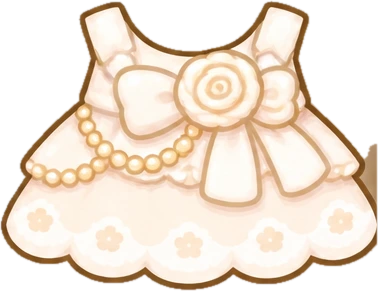
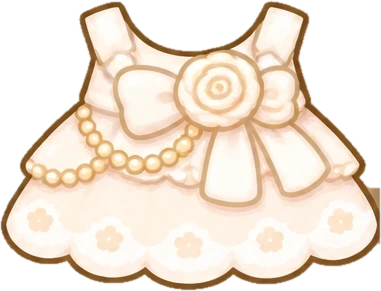
Fix cropped wedding dress and banana doll
Claude-Session: https://claude.ai/code/session_01R3m8MAFkhgnU4D5f6BKp5W

diff --git a/index.html b/index.html
@@ -834,7 +834,7 @@ DISHES.forEach(function(d){ for(var st=1;st<=3;st++){ var x=STAR_X[st];
 var SHOP = [];
 /* 이미지로 만든 아이템: {id,name,slot,tier,cost,file:'assets/items/id.webp',box:[x,y,w,h]} 를 여기에 추가하면
    뽑기·꾸미기·도감에 자동으로 들어가요. box는 캔버스(640x520) 좌표, vb는 box 와 같아요. */
-var IMG_ITEMS = [{"id": "ribbon", "name": "빨간 리본", "slot": "side", "tier": 0, "cost": 8, "file": "assets/items/ribbon.webp", "box": [374.5, 56.1, 125, 71.7]}, {"id": "flower", "name": "꽃 핀", "slot": "side", "tier": 0, "cost": 12, "file": "assets/items/flower.webp", "box": [152.5, 43.1, 105, 97.7]}, {"id": "sprout", "name": "새싹 핀", "slot": "side", "tier": 0, "cost": 8, "file": "assets/items/sprout.webp", "box": [382.0, 53.3, 110, 77.5]}, {"id": "heart", "name": "하트 핀", "slot": "side", "tier": 0, "cost": 10, "file": "assets/items/heart.webp", "box": [383.0, 46.8, 108, 90.4]}, {"id": "star", "name": "별 핀", "slot": "side", "tier": 0, "cost": 10, "file": "assets/items/star.webp", "box": [383.0, 37.5, 108, 108.9]}, {"id": "cloudbow", "name": "구름 무지개 핀", "slot": "side", "tier": 0, "cost": 12, "file": "assets/items/cloudbow.webp", "box": [377.0, 51.8, 120, 80.5]}, {"id": "cherry", "name": "체리 핀", "slot": "side", "tier": 0, "cost": 12, "file": "assets/items/cherry.webp", "box": [387.0, 42.4, 100, 99.2]}, {"id": "glasses", "name": "동그란 안경", "slot": "face", "tier": 1, "cost": 15, "file": "assets/items/glasses.webp", "box": [143.5, 166.3, 355, 147.4]}, {"id": "scarf", "name": "따뜻한 목도리", "slot": "neck", "tier": 1, "cost": 20, "file": "assets/items/scarf.webp", "box": [179.5, 318.9, 285, 178.3]}, {"id": "hat", "name": "파티 모자", "slot": "head", "tier": 1, "cost": 25, "file": "assets/items/hat.webp", "box": [250.0, -80.1, 140, 168.1]}, {"id": "wingpin", "name": "날개 핀", "slot": "side", "tier": 1, "cost": 18, "file": "assets/items/wingpin.webp", "box": [379.5, 46.4, 115, 91.1]}, {"id": "purplebow", "name": "보라 리본 핀", "slot": "side", "tier": 1, "cost": 15, "file": "assets/items/purplebow.webp", "box": [377.0, 50.1, 120, 83.8]}, {"id": "lacebow", "name": "레이스 리본 핀", "slot": "side", "tier": 1, "cost": 18, "file": "assets/items/lacebow.webp", "box": [379.5, 38.0, 115, 108.1]}, {"id": "snow", "name": "눈꽃 핀", "slot": "side", "tier": 1, "cost": 20, "file": "assets/items/snow.webp", "box": [387.0, 48.3, 100, 87.4]}, {"id": "moon", "name": "달별 핀", "slot": "side", "tier": 1, "cost": 22, "file": "assets/items/moon.webp", "box": [382.0, 39.7, 110, 104.6]}, {"id": "crown", "name": "반짝 왕관", "slot": "head", "tier": 2, "cost": 0, "file": "assets/items/crown.webp", "box": [230.0, -37.8, 180, 127.8]}, {"id": "wizard", "name": "별 마법사 모자", "slot": "head", "tier": 2, "cost": 0, "file": "assets/items/wizard.webp", "box": [177.0, -77.3, 290, 189.3]}, {"id": "starwing", "name": "별무지개 날개 머리띠", "slot": "head", "tier": 2, "cost": 0, "file": "assets/items/starwing.webp", "box": [165.0, 28.9, 310, 134.2]}, {"id": "nightcap", "name": "꿀잠 모자", "slot": "head", "tier": 2, "cost": 0, "file": "assets/items/nightcap.webp", "box": [192.0, 9.8, 260, 180.4]}, {"id": "maid", "name": "프릴 리본 머리띠", "slot": "head", "tier": 2, "cost": 0, "file": "assets/items/maid.webp", "box": [190.0, 19.6, 260, 156.9]}, {"id": "angel", "name": "천사 날개 후광", "slot": "head", "tier": 3, "cost": 0, "file": "assets/items/angel.webp", "box": [150.0, 6.4, 340, 177.1]}, {"id": "bat", "name": "박쥐 날개", "slot": "head", "tier": 3, "cost": 0, "file": "assets/items/bat.webp", "box": [165.0, 48.5, 310, 127.1]}, {"id": "wreath", "name": "꽃 화관", "slot": "head", "tier": 3, "cost": 0, "file": "assets/items/wreath.webp", "box": [180.0, 19.0, 280, 162.0]}, {"id": "tiara", "name": "날개 티아라", "slot": "head", "tier": 3, "cost": 0, "file": "assets/items/tiara.webp", "box": [195.0, 18.6, 250, 146.9]}, {"id": "galaxy", "name": "은하수 머리띠", "slot": "head", "tier": 3, "cost": 0, "file": "assets/items/galaxy.webp", "box": [160.0, 23.2, 320, 161.5]}, {"id": "broom", "name": "빗자루", "slot": "hand", "tier": 0, "cost": 14, "file": "assets/items/broom.webp", "box": [401.6, 283, 100.8, 230]}, {"id": "drink", "name": "음료수", "slot": "hand", "tier": 0, "cost": 10, "file": "assets/items/drink.webp", "box": [136.2, 332, 97.6, 162]}, {"id": "schoolbag", "name": "학교가방", "slot": "hand", "tier": 0, "cost": 16, "file": "assets/items/schoolbag.webp", "box": [383.0, 392, 133.0, 140]}, {"id": "slime", "name": "슬라임", "slot": "hand", "tier": 1, "cost": 18, "file": "assets/items/slime.webp", "box": [108.0, 331.1, 154, 116.8]}, {"id": "gameboy", "name": "휴대용 게임기", "slot": "hand", "tier": 1, "cost": 24, "file": "assets/items/gameboy.webp", "box": [222.0, 359.4, 195, 109.1]}, {"id": "bananadoll", "name": "바나나 애착인형", "slot": "hand", "tier": 2, "cost": 0, "file": "assets/items/bananadoll.webp", "box": [105.0, 303.6, 150, 176.4]}, {"id": "elephantdoll", "name": "코끼리 애착인형", "slot": "hand", "tier": 2, "cost": 0, "file": "assets/items/elephantdoll.webp", "box": [385.0, 321.0, 160, 148.7]}, {"id": "tshirt", "name": "줄무늬 티셔츠", "slot": "outfit", "tier": 0, "cost": 14, "file": "assets/items/tshirt.webp", "box": [200.0, 328, 240, 131.0]}, {"id": "overalls", "name": "멜빵바지", "slot": "outfit", "tier": 0, "cost": 16, "file": "assets/items/overalls.webp", "box": [200.0, 328, 240, 177.4]}, {"id": "dress", "name": "분홍 원피스", "slot": "outfit", "tier": 1, "cost": 26, "file": "assets/items/dress.webp", "box": [200.0, 328, 240, 131.7]}, {"id": "hanbok", "name": "한복", "slot": "outfit", "tier": 1, "cost": 30, "file": "assets/items/hanbok.webp", "box": [200.0, 328, 240, 139.9]}, {"id": "uniform", "name": "세일러 교복", "slot": "outfit", "tier": 1, "cost": 28, "file": "assets/items/uniform.webp", "box": [200.0, 328, 240, 146.9]}, {"id": "cape", "name": "별빛 마법 망토", "slot": "outfit", "tier": 2, "cost": 0, "file": "assets/items/cape.webp", "box": [200.0, 365, 240, 138.0]}, {"id": "princess", "name": "공주 드레스", "slot": "outfit", "tier": 2, "cost": 0, "file": "assets/items/princess.webp", "box": [200.0, 328, 240, 157.7]}, {"id": "spacesuit", "name": "우주복", "slot": "outfit", "tier": 3, "cost": 0, "file": "assets/items/spacesuit.webp", "box": [200.0, 328, 240, 121.6]}, {"id": "heartphones", "name": "하트 헤드폰", "slot": "head", "tier": 1, "cost": 22, "file": "assets/items/heartphones.webp", "box": [82, -12, 476, 273.0]}, {"id": "nursehat", "name": "간호사 모자", "slot": "head", "tier": 0, "cost": 14, "file": "assets/items/nursehat.webp", "box": [215, 14, 210, 102.6]}, {"id": "nursedress", "name": "간호사복", "slot": "outfit", "tier": 1, "cost": 28, "file": "assets/items/nursedress.webp", "box": [180.0, 318, 280, 206.6]}, {"id": "pancake", "name": "팬케이크", "slot": "hand", "tier": 1, "cost": 18, "file": "assets/items/pancake.webp", "box": [110, 335, 150, 121.7]}, {"id": "chocochip", "name": "초코칩", "slot": "hand", "tier": 0, "cost": 12, "file": "assets/items/chocochip.webp", "box": [130, 340, 100, 101.5]}, {"id": "elephantwings", "name": "코끼리 날개", "slot": "back", "tier": 1, "cost": 32, "file": "assets/items/elephantwings.webp", "box": [-30.0, 205, 700, 321.4]}, {"id": "angelwings", "name": "천사 날개", "slot": "back", "tier": 1, "cost": 34, "file": "assets/items/angelwings.webp", "box": [-30.0, 205, 700, 269.5]}, {"id": "demonwings", "name": "악마 날개", "slot": "back", "tier": 1, "cost": 34, "file": "assets/items/demonwings.webp", "box": [-30.0, 205, 700, 300.2]}, {"id": "rainbowwings", "name": "무지개 날개", "slot": "back", "tier": 2, "cost": 0, "file": "assets/items/rainbowwings.webp", "box": [-30.0, 205, 700, 312.6]}, {"id": "butterflywings", "name": "나비 날개", "slot": "back", "tier": 0, "cost": 24, "file": "assets/items/butterflywings.webp", "box": [-30.0, 205, 700, 313.3]}, {"id": "fairywings", "name": "요정 날개", "slot": "back", "tier": 1, "cost": 30, "file": "assets/items/fairywings.webp", "box": [-30.0, 205, 700, 358.8]}, {"id": "crystalwings", "name": "크리스탈 날개", "slot": "back", "tier": 2, "cost": 0, "file": "assets/items/crystalwings.webp", "box": [-30.0, 205, 700, 354.4]}, {"id": "starwings", "name": "별빛 날개", "slot": "back", "tier": 2, "cost": 0, "file": "assets/items/starwings.webp", "box": [-30.0, 205, 700, 348.6]}, {"id": "naturewings", "name": "자연 날개", "slot": "back", "tier": 1, "cost": 30, "file": "assets/items/naturewings.webp", "box": [-30.0, 205, 700, 350.8]}, {"id": "nheart", "name": "하트 멜빵 반바지", "slot": "outfit", "tier": 0, "cost": 16, "file": "assets/items/nheart.webp", "box": [180.0, 318, 280, 210.6]}, {"id": "nribbon", "name": "분홍 리본 원피스", "slot": "outfit", "tier": 1, "cost": 26, "file": "assets/items/nribbon.webp", "box": [180.0, 318, 280, 192.7]}, {"id": "ndaisy", "name": "노랑 데이지 원피스", "slot": "outfit", "tier": 1, "cost": 28, "file": "assets/items/ndaisy.webp", "box": [180.0, 318, 280, 200.4]}, {"id": "nstrawb", "name": "딸기 레이스 원피스", "slot": "outfit", "tier": 1, "cost": 28, "file": "assets/items/nstrawb.webp", "box": [180.0, 318, 280, 188.6]}, {"id": "nsailor", "name": "곰돌이 세일러복", "slot": "outfit", "tier": 0, "cost": 18, "file": "assets/items/nsailor.webp", "box": [180.0, 318, 280, 205.2]}, {"id": "nbeartan", "name": "갈색 리본 곰돌이옷", "slot": "outfit", "tier": 1, "cost": 26, "file": "assets/items/nbeartan.webp", "box": [180.0, 318, 280, 209.0]}, {"id": "nrose", "name": "장미 꽃무늬 원피스", "slot": "outfit", "tier": 1, "cost": 26, "file": "assets/items/nrose.webp", "box": [180.0, 318, 280, 195.0]}, {"id": "nbearblue", "name": "곰돌이 파랑 멜빵", "slot": "outfit", "tier": 0, "cost": 18, "file": "assets/items/nbearblue.webp", "box": [180.0, 318, 280, 209.6]}, {"id": "nstar", "name": "별빛 망토", "slot": "outfit", "tier": 2, "cost": 0, "file": "assets/items/nstar.webp", "box": [180.0, 318, 280, 204.7]}, {"id": "nsnow", "name": "눈꽃 망토", "slot": "outfit", "tier": 2, "cost": 0, "file": "assets/items/nsnow.webp", "box": [180.0, 318, 280, 193.8]}, {"id": "nprince", "name": "왕자님 정복", "slot": "outfit", "tier": 2, "cost": 0, "file": "assets/items/nprince.webp", "box": [180.0, 318, 280, 211.5]}, {"id": "nbat", "name": "박쥐 망토", "slot": "outfit", "tier": 3, "cost": 0, "file": "assets/items/nbat.webp", "box": [180.0, 318, 280, 207.8]}, {"id": "mpink", "name": "핑크 하트 멜빵", "slot": "outfit", "tier": 0, "cost": 16, "file": "assets/items/mpink.webp", "box": [180.0, 318, 280, 226.8]}, {"id": "myellow", "name": "노랑 데이지 리본 원피스", "slot": "outfit", "tier": 1, "cost": 26, "file": "assets/items/myellow.webp", "box": [180.0, 318, 280, 197.4]}, {"id": "manchor", "name": "닻 세일러 원피스", "slot": "outfit", "tier": 0, "cost": 18, "file": "assets/items/manchor.webp", "box": [180.0, 318, 280, 206.7]}, {"id": "mstrawchk", "name": "딸기 체크 원피스", "slot": "outfit", "tier": 1, "cost": 28, "file": "assets/items/mstrawchk.webp", "box": [180.0, 318, 280, 196.1]}, {"id": "mdenim", "name": "별 청멜빵 반바지", "slot": "outfit", "tier": 0, "cost": 16, "file": "assets/items/mdenim.webp", "box": [180.0, 318, 280, 213.6]}, {"id": "mlavender", "name": "라벤더 프릴 원피스", "slot": "outfit", "tier": 1, "cost": 28, "file": "assets/items/mlavender.webp", "box": [180.0, 318, 280, 197.1]}, {"id": "mbearcream", "name": "곰돌이 크림 멜빵", "slot": "outfit", "tier": 1, "cost": 26, "file": "assets/items/mbearcream.webp", "box": [180.0, 318, 280, 215.8]}, {"id": "mmint", "name": "민트 클로버 원피스", "slot": "outfit", "tier": 1, "cost": 26, "file": "assets/items/mmint.webp", "box": [180.0, 318, 280, 202.9]}, {"id": "mcloud", "name": "구름 리본 원피스", "slot": "outfit", "tier": 1, "cost": 26, "file": "assets/items/mcloud.webp", "box": [180.0, 318, 280, 205.4]}, {"id": "mbee", "name": "꿀벌 멜빵", "slot": "outfit", "tier": 2, "cost": 0, "file": "assets/items/mbee.webp", "box": [180.0, 318, 280, 232.5]}, {"id": "mpearl", "name": "진주 하트 원피스", "slot": "outfit", "tier": 2, "cost": 0, "file": "assets/items/mpearl.webp", "box": [160.0, 318, 280, 214.0]}, {"id": "mnavy", "name": "달별 네이비 정복", "slot": "outfit", "tier": 3, "cost": 0, "file": "assets/items/mnavy.webp", "box": [180.0, 318, 280, 211.5]}, {"id": "psakura", "name": "벚꽃 원피스", "slot": "outfit", "tier": 1, "cost": 26, "file": "assets/items/psakura.webp", "box": [180.0, 328, 280, 217.5]}, {"id": "palice", "name": "앨리스 원피스", "slot": "outfit", "tier": 2, "cost": 0, "file": "assets/items/palice.webp", "box": [180.0, 328, 280, 222.2]}, {"id": "ppicnic", "name": "체크 피크닉 원피스", "slot": "outfit", "tier": 1, "cost": 28, "file": "assets/items/ppicnic.webp", "box": [180.0, 328, 280, 222.3]}, {"id": "pballet", "name": "발레코어 원피스", "slot": "outfit", "tier": 1, "cost": 28, "file": "assets/items/pballet.webp", "box": [180.0, 328, 280, 206.8]}, {"id": "pangel", "name": "천사 원피스", "slot": "outfit", "tier": 2, "cost": 0, "file": "assets/items/pangel.webp", "box": [160.0, 328, 280, 206.5]}, {"id": "pwedding", "name": "웨딩 드레스", "slot": "outfit", "tier": 3, "cost": 0, "file": "assets/items/pwedding.webp", "box": [180.0, 328, 280, 215.6]}, {"id": "pbee", "name": "꿀벌 원피스", "slot": "outfit", "tier": 1, "cost": 26, "file": "assets/items/pbee.webp", "box": [180.0, 328, 280, 236.0]}, {"id": "pfrog", "name": "개구리 멜빵", "slot": "outfit", "tier": 0, "cost": 18, "file": "assets/items/pfrog.webp", "box": [180.0, 328, 280, 214.2]}, {"id": "pcherry", "name": "체리 원피스", "slot": "outfit", "tier": 1, "cost": 28, "file": "assets/items/pcherry.webp", "box": [180.0, 328, 280, 228.3]}, {"id": "pcloudstar", "name": "구름별 원피스", "slot": "outfit", "tier": 2, "cost": 0, "file": "assets/items/pcloudstar.webp", "box": [180.0, 328, 280, 234.1]}, {"id": "pgoth", "name": "고딕 로리타", "slot": "outfit", "tier": 2, "cost": 0, "file": "assets/items/pgoth.webp", "box": [180.0, 328, 280, 230.8]}, {"id": "pxmas", "name": "크리스마스 원피스", "slot": "outfit", "tier": 3, "cost": 0, "file": "assets/items/pxmas.webp", "box": [180.0, 328, 280, 219.7]}, {"id": "kblackdress", "name": "검정 칼라 원피스", "slot": "outfit", "tier": 1, "cost": 26, "file": "assets/items/kblackdress.webp", "box": [160.0, 318, 280, 160.0]}, {"id": "kplaid", "name": "회색 체크 원피스", "slot": "outfit", "tier": 1, "cost": 28, "file": "assets/items/kplaid.webp", "box": [160.0, 318, 280, 171.7]}, {"id": "kapple", "name": "사과 빨강 원피스", "slot": "outfit", "tier": 1, "cost": 28, "file": "assets/items/kapple.webp", "box": [160.0, 318, 280, 173.8]}, {"id": "kwhite", "name": "흰 레이스 원피스", "slot": "outfit", "tier": 1, "cost": 26, "file": "assets/items/kwhite.webp", "box": [160.0, 318, 280, 177.1]}, {"id": "kgreen", "name": "그린 멜빵 원피스", "slot": "outfit", "tier": 1, "cost": 26, "file": "assets/items/kgreen.webp", "box": [160.0, 318, 280, 178.8]}, {"id": "kberet", "name": "빨간 베레모", "slot": "head", "tier": 1, "cost": 24, "file": "assets/items/kberet.webp", "box": [215, 8, 180, 103.0]}, {"id": "kblackbow", "name": "검정 리본", "slot": "head", "tier": 0, "cost": 12, "file": "assets/items/kblackbow.webp", "box": [335, 18, 95, 68.1]}, {"id": "kwhitebow", "name": "흰 리본", "slot": "head", "tier": 0, "cost": 12, "file": "assets/items/kwhitebow.webp", "box": [335, 18, 95, 68.1]}, {"id": "kpolice", "name": "경찰복", "slot": "outfit", "tier": 1, "cost": 28, "file": "assets/items/kpolice.webp", "box": [160.0, 318, 280, 211.4]}, {"id": "kpolicehat", "name": "경찰모", "slot": "head", "tier": 1, "cost": 26, "file": "assets/items/kpolicehat.webp", "box": [240.0, 19.6, 160, 95.4]}];
+var IMG_ITEMS = [{"id": "ribbon", "name": "빨간 리본", "slot": "side", "tier": 0, "cost": 8, "file": "assets/items/ribbon.webp", "box": [374.5, 56.1, 125, 71.7]}, {"id": "flower", "name": "꽃 핀", "slot": "side", "tier": 0, "cost": 12, "file": "assets/items/flower.webp", "box": [152.5, 43.1, 105, 97.7]}, {"id": "sprout", "name": "새싹 핀", "slot": "side", "tier": 0, "cost": 8, "file": "assets/items/sprout.webp", "box": [382.0, 53.3, 110, 77.5]}, {"id": "heart", "name": "하트 핀", "slot": "side", "tier": 0, "cost": 10, "file": "assets/items/heart.webp", "box": [383.0, 46.8, 108, 90.4]}, {"id": "star", "name": "별 핀", "slot": "side", "tier": 0, "cost": 10, "file": "assets/items/star.webp", "box": [383.0, 37.5, 108, 108.9]}, {"id": "cloudbow", "name": "구름 무지개 핀", "slot": "side", "tier": 0, "cost": 12, "file": "assets/items/cloudbow.webp", "box": [377.0, 51.8, 120, 80.5]}, {"id": "cherry", "name": "체리 핀", "slot": "side", "tier": 0, "cost": 12, "file": "assets/items/cherry.webp", "box": [387.0, 42.4, 100, 99.2]}, {"id": "glasses", "name": "동그란 안경", "slot": "face", "tier": 1, "cost": 15, "file": "assets/items/glasses.webp", "box": [143.5, 166.3, 355, 147.4]}, {"id": "scarf", "name": "따뜻한 목도리", "slot": "neck", "tier": 1, "cost": 20, "file": "assets/items/scarf.webp", "box": [179.5, 318.9, 285, 178.3]}, {"id": "hat", "name": "파티 모자", "slot": "head", "tier": 1, "cost": 25, "file": "assets/items/hat.webp", "box": [250.0, -80.1, 140, 168.1]}, {"id": "wingpin", "name": "날개 핀", "slot": "side", "tier": 1, "cost": 18, "file": "assets/items/wingpin.webp", "box": [379.5, 46.4, 115, 91.1]}, {"id": "purplebow", "name": "보라 리본 핀", "slot": "side", "tier": 1, "cost": 15, "file": "assets/items/purplebow.webp", "box": [377.0, 50.1, 120, 83.8]}, {"id": "lacebow", "name": "레이스 리본 핀", "slot": "side", "tier": 1, "cost": 18, "file": "assets/items/lacebow.webp", "box": [379.5, 38.0, 115, 108.1]}, {"id": "snow", "name": "눈꽃 핀", "slot": "side", "tier": 1, "cost": 20, "file": "assets/items/snow.webp", "box": [387.0, 48.3, 100, 87.4]}, {"id": "moon", "name": "달별 핀", "slot": "side", "tier": 1, "cost": 22, "file": "assets/items/moon.webp", "box": [382.0, 39.7, 110, 104.6]}, {"id": "crown", "name": "반짝 왕관", "slot": "head", "tier": 2, "cost": 0, "file": "assets/items/crown.webp", "box": [230.0, -37.8, 180, 127.8]}, {"id": "wizard", "name": "별 마법사 모자", "slot": "head", "tier": 2, "cost": 0, "file": "assets/items/wizard.webp", "box": [177.0, -77.3, 290, 189.3]}, {"id": "starwing", "name": "별무지개 날개 머리띠", "slot": "head", "tier": 2, "cost": 0, "file": "assets/items/starwing.webp", "box": [165.0, 28.9, 310, 134.2]}, {"id": "nightcap", "name": "꿀잠 모자", "slot": "head", "tier": 2, "cost": 0, "file": "assets/items/nightcap.webp", "box": [192.0, 9.8, 260, 180.4]}, {"id": "maid", "name": "프릴 리본 머리띠", "slot": "head", "tier": 2, "cost": 0, "file": "assets/items/maid.webp", "box": [190.0, 19.6, 260, 156.9]}, {"id": "angel", "name": "천사 날개 후광", "slot": "head", "tier": 3, "cost": 0, "file": "assets/items/angel.webp", "box": [150.0, 6.4, 340, 177.1]}, {"id": "bat", "name": "박쥐 날개", "slot": "head", "tier": 3, "cost": 0, "file": "assets/items/bat.webp", "box": [165.0, 48.5, 310, 127.1]}, {"id": "wreath", "name": "꽃 화관", "slot": "head", "tier": 3, "cost": 0, "file": "assets/items/wreath.webp", "box": [180.0, 19.0, 280, 162.0]}, {"id": "tiara", "name": "날개 티아라", "slot": "head", "tier": 3, "cost": 0, "file": "assets/items/tiara.webp", "box": [195.0, 18.6, 250, 146.9]}, {"id": "galaxy", "name": "은하수 머리띠", "slot": "head", "tier": 3, "cost": 0, "file": "assets/items/galaxy.webp", "box": [160.0, 23.2, 320, 161.5]}, {"id": "broom", "name": "빗자루", "slot": "hand", "tier": 0, "cost": 14, "file": "assets/items/broom.webp", "box": [401.6, 283, 100.8, 230]}, {"id": "drink", "name": "음료수", "slot": "hand", "tier": 0, "cost": 10, "file": "assets/items/drink.webp", "box": [136.2, 332, 97.6, 162]}, {"id": "schoolbag", "name": "학교가방", "slot": "hand", "tier": 0, "cost": 16, "file": "assets/items/schoolbag.webp", "box": [383.0, 392, 133.0, 140]}, {"id": "slime", "name": "슬라임", "slot": "hand", "tier": 1, "cost": 18, "file": "assets/items/slime.webp", "box": [108.0, 331.1, 154, 116.8]}, {"id": "gameboy", "name": "휴대용 게임기", "slot": "hand", "tier": 1, "cost": 24, "file": "assets/items/gameboy.webp", "box": [222.0, 359.4, 195, 109.1]}, {"id": "bananadoll", "name": "바나나 애착인형", "slot": "hand", "tier": 2, "cost": 0, "file": "assets/items/bananadoll.webp", "box": [62, 340, 130, 149.5]}, {"id": "elephantdoll", "name": "코끼리 애착인형", "slot": "hand", "tier": 2, "cost": 0, "file": "assets/items/elephantdoll.webp", "box": [385.0, 321.0, 160, 148.7]}, {"id": "tshirt", "name": "줄무늬 티셔츠", "slot": "outfit", "tier": 0, "cost": 14, "file": "assets/items/tshirt.webp", "box": [200.0, 328, 240, 131.0]}, {"id": "overalls", "name": "멜빵바지", "slot": "outfit", "tier": 0, "cost": 16, "file": "assets/items/overalls.webp", "box": [200.0, 328, 240, 177.4]}, {"id": "dress", "name": "분홍 원피스", "slot": "outfit", "tier": 1, "cost": 26, "file": "assets/items/dress.webp", "box": [200.0, 328, 240, 131.7]}, {"id": "hanbok", "name": "한복", "slot": "outfit", "tier": 1, "cost": 30, "file": "assets/items/hanbok.webp", "box": [200.0, 328, 240, 139.9]}, {"id": "uniform", "name": "세일러 교복", "slot": "outfit", "tier": 1, "cost": 28, "file": "assets/items/uniform.webp", "box": [200.0, 328, 240, 146.9]}, {"id": "cape", "name": "별빛 마법 망토", "slot": "outfit", "tier": 2, "cost": 0, "file": "assets/items/cape.webp", "box": [200.0, 365, 240, 138.0]}, {"id": "princess", "name": "공주 드레스", "slot": "outfit", "tier": 2, "cost": 0, "file": "assets/items/princess.webp", "box": [200.0, 328, 240, 157.7]}, {"id": "spacesuit", "name": "우주복", "slot": "outfit", "tier": 3, "cost": 0, "file": "assets/items/spacesuit.webp", "box": [200.0, 328, 240, 121.6]}, {"id": "heartphones", "name": "하트 헤드폰", "slot": "head", "tier": 1, "cost": 22, "file": "assets/items/heartphones.webp", "box": [82, -12, 476, 273.0]}, {"id": "nursehat", "name": "간호사 모자", "slot": "head", "tier": 0, "cost": 14, "file": "assets/items/nursehat.webp", "box": [215, 14, 210, 102.6]}, {"id": "nursedress", "name": "간호사복", "slot": "outfit", "tier": 1, "cost": 28, "file": "assets/items/nursedress.webp", "box": [180.0, 318, 280, 206.6]}, {"id": "pancake", "name": "팬케이크", "slot": "hand", "tier": 1, "cost": 18, "file": "assets/items/pancake.webp", "box": [110, 335, 150, 121.7]}, {"id": "chocochip", "name": "초코칩", "slot": "hand", "tier": 0, "cost": 12, "file": "assets/items/chocochip.webp", "box": [130, 340, 100, 101.5]}, {"id": "elephantwings", "name": "코끼리 날개", "slot": "back", "tier": 1, "cost": 32, "file": "assets/items/elephantwings.webp", "box": [-30.0, 205, 700, 321.4]}, {"id": "angelwings", "name": "천사 날개", "slot": "back", "tier": 1, "cost": 34, "file": "assets/items/angelwings.webp", "box": [-30.0, 205, 700, 269.5]}, {"id": "demonwings", "name": "악마 날개", "slot": "back", "tier": 1, "cost": 34, "file": "assets/items/demonwings.webp", "box": [-30.0, 205, 700, 300.2]}, {"id": "rainbowwings", "name": "무지개 날개", "slot": "back", "tier": 2, "cost": 0, "file": "assets/items/rainbowwings.webp", "box": [-30.0, 205, 700, 312.6]}, {"id": "butterflywings", "name": "나비 날개", "slot": "back", "tier": 0, "cost": 24, "file": "assets/items/butterflywings.webp", "box": [-30.0, 205, 700, 313.3]}, {"id": "fairywings", "name": "요정 날개", "slot": "back", "tier": 1, "cost": 30, "file": "assets/items/fairywings.webp", "box": [-30.0, 205, 700, 358.8]}, {"id": "crystalwings", "name": "크리스탈 날개", "slot": "back", "tier": 2, "cost": 0, "file": "assets/items/crystalwings.webp", "box": [-30.0, 205, 700, 354.4]}, {"id": "starwings", "name": "별빛 날개", "slot": "back", "tier": 2, "cost": 0, "file": "assets/items/starwings.webp", "box": [-30.0, 205, 700, 348.6]}, {"id": "naturewings", "name": "자연 날개", "slot": "back", "tier": 1, "cost": 30, "file": "assets/items/naturewings.webp", "box": [-30.0, 205, 700, 350.8]}, {"id": "nheart", "name": "하트 멜빵 반바지", "slot": "outfit", "tier": 0, "cost": 16, "file": "assets/items/nheart.webp", "box": [180.0, 318, 280, 210.6]}, {"id": "nribbon", "name": "분홍 리본 원피스", "slot": "outfit", "tier": 1, "cost": 26, "file": "assets/items/nribbon.webp", "box": [180.0, 318, 280, 192.7]}, {"id": "ndaisy", "name": "노랑 데이지 원피스", "slot": "outfit", "tier": 1, "cost": 28, "file": "assets/items/ndaisy.webp", "box": [180.0, 318, 280, 200.4]}, {"id": "nstrawb", "name": "딸기 레이스 원피스", "slot": "outfit", "tier": 1, "cost": 28, "file": "assets/items/nstrawb.webp", "box": [180.0, 318, 280, 188.6]}, {"id": "nsailor", "name": "곰돌이 세일러복", "slot": "outfit", "tier": 0, "cost": 18, "file": "assets/items/nsailor.webp", "box": [180.0, 318, 280, 205.2]}, {"id": "nbeartan", "name": "갈색 리본 곰돌이옷", "slot": "outfit", "tier": 1, "cost": 26, "file": "assets/items/nbeartan.webp", "box": [180.0, 318, 280, 209.0]}, {"id": "nrose", "name": "장미 꽃무늬 원피스", "slot": "outfit", "tier": 1, "cost": 26, "file": "assets/items/nrose.webp", "box": [180.0, 318, 280, 195.0]}, {"id": "nbearblue", "name": "곰돌이 파랑 멜빵", "slot": "outfit", "tier": 0, "cost": 18, "file": "assets/items/nbearblue.webp", "box": [180.0, 318, 280, 209.6]}, {"id": "nstar", "name": "별빛 망토", "slot": "outfit", "tier": 2, "cost": 0, "file": "assets/items/nstar.webp", "box": [180.0, 318, 280, 204.7]}, {"id": "nsnow", "name": "눈꽃 망토", "slot": "outfit", "tier": 2, "cost": 0, "file": "assets/items/nsnow.webp", "box": [180.0, 318, 280, 193.8]}, {"id": "nprince", "name": "왕자님 정복", "slot": "outfit", "tier": 2, "cost": 0, "file": "assets/items/nprince.webp", "box": [180.0, 318, 280, 211.5]}, {"id": "nbat", "name": "박쥐 망토", "slot": "outfit", "tier": 3, "cost": 0, "file": "assets/items/nbat.webp", "box": [180.0, 318, 280, 207.8]}, {"id": "mpink", "name": "핑크 하트 멜빵", "slot": "outfit", "tier": 0, "cost": 16, "file": "assets/items/mpink.webp", "box": [180.0, 318, 280, 226.8]}, {"id": "myellow", "name": "노랑 데이지 리본 원피스", "slot": "outfit", "tier": 1, "cost": 26, "file": "assets/items/myellow.webp", "box": [180.0, 318, 280, 197.4]}, {"id": "manchor", "name": "닻 세일러 원피스", "slot": "outfit", "tier": 0, "cost": 18, "file": "assets/items/manchor.webp", "box": [180.0, 318, 280, 206.7]}, {"id": "mstrawchk", "name": "딸기 체크 원피스", "slot": "outfit", "tier": 1, "cost": 28, "file": "assets/items/mstrawchk.webp", "box": [180.0, 318, 280, 196.1]}, {"id": "mdenim", "name": "별 청멜빵 반바지", "slot": "outfit", "tier": 0, "cost": 16, "file": "assets/items/mdenim.webp", "box": [180.0, 318, 280, 213.6]}, {"id": "mlavender", "name": "라벤더 프릴 원피스", "slot": "outfit", "tier": 1, "cost": 28, "file": "assets/items/mlavender.webp", "box": [180.0, 318, 280, 197.1]}, {"id": "mbearcream", "name": "곰돌이 크림 멜빵", "slot": "outfit", "tier": 1, "cost": 26, "file": "assets/items/mbearcream.webp", "box": [180.0, 318, 280, 215.8]}, {"id": "mmint", "name": "민트 클로버 원피스", "slot": "outfit", "tier": 1, "cost": 26, "file": "assets/items/mmint.webp", "box": [180.0, 318, 280, 202.9]}, {"id": "mcloud", "name": "구름 리본 원피스", "slot": "outfit", "tier": 1, "cost": 26, "file": "assets/items/mcloud.webp", "box": [180.0, 318, 280, 205.4]}, {"id": "mbee", "name": "꿀벌 멜빵", "slot": "outfit", "tier": 2, "cost": 0, "file": "assets/items/mbee.webp", "box": [180.0, 318, 280, 232.5]}, {"id": "mpearl", "name": "진주 하트 원피스", "slot": "outfit", "tier": 2, "cost": 0, "file": "assets/items/mpearl.webp", "box": [160.0, 318, 280, 214.0]}, {"id": "mnavy", "name": "달별 네이비 정복", "slot": "outfit", "tier": 3, "cost": 0, "file": "assets/items/mnavy.webp", "box": [180.0, 318, 280, 211.5]}, {"id": "psakura", "name": "벚꽃 원피스", "slot": "outfit", "tier": 1, "cost": 26, "file": "assets/items/psakura.webp", "box": [180.0, 328, 280, 217.5]}, {"id": "palice", "name": "앨리스 원피스", "slot": "outfit", "tier": 2, "cost": 0, "file": "assets/items/palice.webp", "box": [180.0, 328, 280, 222.2]}, {"id": "ppicnic", "name": "체크 피크닉 원피스", "slot": "outfit", "tier": 1, "cost": 28, "file": "assets/items/ppicnic.webp", "box": [180.0, 328, 280, 222.3]}, {"id": "pballet", "name": "발레코어 원피스", "slot": "outfit", "tier": 1, "cost": 28, "file": "assets/items/pballet.webp", "box": [180.0, 328, 280, 206.8]}, {"id": "pangel", "name": "천사 원피스", "slot": "outfit", "tier": 2, "cost": 0, "file": "assets/items/pangel.webp", "box": [160.0, 328, 280, 206.5]}, {"id": "pwedding", "name": "웨딩 드레스", "slot": "outfit", "tier": 3, "cost": 0, "file": "assets/items/pwedding.webp", "box": [180.0, 328, 280, 213.9]}, {"id": "pbee", "name": "꿀벌 원피스", "slot": "outfit", "tier": 1, "cost": 26, "file": "assets/items/pbee.webp", "box": [180.0, 328, 280, 236.0]}, {"id": "pfrog", "name": "개구리 멜빵", "slot": "outfit", "tier": 0, "cost": 18, "file": "assets/items/pfrog.webp", "box": [180.0, 328, 280, 214.2]}, {"id": "pcherry", "name": "체리 원피스", "slot": "outfit", "tier": 1, "cost": 28, "file": "assets/items/pcherry.webp", "box": [180.0, 328, 280, 228.3]}, {"id": "pcloudstar", "name": "구름별 원피스", "slot": "outfit", "tier": 2, "cost": 0, "file": "assets/items/pcloudstar.webp", "box": [180.0, 328, 280, 234.1]}, {"id": "pgoth", "name": "고딕 로리타", "slot": "outfit", "tier": 2, "cost": 0, "file": "assets/items/pgoth.webp", "box": [180.0, 328, 280, 230.8]}, {"id": "pxmas", "name": "크리스마스 원피스", "slot": "outfit", "tier": 3, "cost": 0, "file": "assets/items/pxmas.webp", "box": [180.0, 328, 280, 219.7]}, {"id": "kblackdress", "name": "검정 칼라 원피스", "slot": "outfit", "tier": 1, "cost": 26, "file": "assets/items/kblackdress.webp", "box": [160.0, 318, 280, 160.0]}, {"id": "kplaid", "name": "회색 체크 원피스", "slot": "outfit", "tier": 1, "cost": 28, "file": "assets/items/kplaid.webp", "box": [160.0, 318, 280, 171.7]}, {"id": "kapple", "name": "사과 빨강 원피스", "slot": "outfit", "tier": 1, "cost": 28, "file": "assets/items/kapple.webp", "box": [160.0, 318, 280, 173.8]}, {"id": "kwhite", "name": "흰 레이스 원피스", "slot": "outfit", "tier": 1, "cost": 26, "file": "assets/items/kwhite.webp", "box": [160.0, 318, 280, 177.1]}, {"id": "kgreen", "name": "그린 멜빵 원피스", "slot": "outfit", "tier": 1, "cost": 26, "file": "assets/items/kgreen.webp", "box": [160.0, 318, 280, 178.8]}, {"id": "kberet", "name": "빨간 베레모", "slot": "head", "tier": 1, "cost": 24, "file": "assets/items/kberet.webp", "box": [215, 8, 180, 103.0]}, {"id": "kblackbow", "name": "검정 리본", "slot": "head", "tier": 0, "cost": 12, "file": "assets/items/kblackbow.webp", "box": [335, 18, 95, 68.1]}, {"id": "kwhitebow", "name": "흰 리본", "slot": "head", "tier": 0, "cost": 12, "file": "assets/items/kwhitebow.webp", "box": [335, 18, 95, 68.1]}, {"id": "kpolice", "name": "경찰복", "slot": "outfit", "tier": 1, "cost": 28, "file": "assets/items/kpolice.webp", "box": [160.0, 318, 280, 211.4]}, {"id": "kpolicehat", "name": "경찰모", "slot": "head", "tier": 1, "cost": 26, "file": "assets/items/kpolicehat.webp", "box": [240.0, 19.6, 160, 95.4]}];
 var ROOM_ITEMS = [{"id": "wall1", "name": "분홍 줄무늬 벽지", "kind": "wallpaper", "tier": 0, "file": "assets/room/wall1.webp", "w": 114, "h": 88}, {"id": "wall2", "name": "하늘 구름 벽지", "kind": "wallpaper", "tier": 0, "file": "assets/room/wall2.webp", "w": 116, "h": 88}, {"id": "wall3", "name": "노랑 별 벽지", "kind": "wallpaper", "tier": 1, "file": "assets/room/wall3.webp", "w": 116, "h": 88}, {"id": "wall4", "name": "보라 달 벽지", "kind": "wallpaper", "tier": 1, "file": "assets/room/wall4.webp", "w": 116, "h": 88}, {"id": "floor1", "name": "분홍 체크 바닥", "kind": "floor", "tier": 0, "file": "assets/room/floor1.webp", "w": 110, "h": 51}, {"id": "floor2", "name": "나무 바닥", "kind": "floor", "tier": 0, "file": "assets/room/floor2.webp", "w": 132, "h": 99}, {"id": "floor3", "name": "하얀 대리석 바닥", "kind": "floor", "tier": 1, "file": "assets/room/floor3.webp", "w": 70, "h": 59}, {"id": "floor4", "name": "초록 다다미 바닥", "kind": "floor", "tier": 1, "file": "assets/room/floor4.webp", "w": 117, "h": 55}, {"id": "bed", "name": "하트 침대", "kind": "furn", "tier": 2, "file": "assets/room/bed.webp", "w": 156, "h": 151}, {"id": "sofa", "name": "구름 소파", "kind": "furn", "tier": 2, "file": "assets/room/sofa.webp", "w": 152, "h": 121}, {"id": "bookshelf", "name": "코끼리 책장", "kind": "furn", "tier": 2, "file": "assets/room/bookshelf.webp", "w": 117, "h": 168}, {"id": "desk", "name": "공부 책상", "kind": "furn", "tier": 2, "file": "assets/room/desk.webp", "w": 182, "h": 146}, {"id": "dresser", "name": "거울 서랍장", "kind": "furn", "tier": 2, "file": "assets/room/dresser.webp", "w": 113, "h": 151}, {"id": "armchair", "name": "하트 안락의자", "kind": "furn", "tier": 1, "file": "assets/room/armchair.webp", "w": 126, "h": 127}, {"id": "curtains", "name": "분홍 커튼", "kind": "wall", "tier": 1, "file": "assets/room/curtains.webp", "w": 149, "h": 115}, {"id": "window1", "name": "둥근 창문", "kind": "wall", "tier": 1, "file": "assets/room/window1.webp", "w": 104, "h": 100}, {"id": "window2", "name": "숲 창문", "kind": "wall", "tier": 0, "file": "assets/room/window2.webp", "w": 77, "h": 83}, {"id": "chandelier", "name": "리본 샹들리에", "kind": "wall", "tier": 1, "file": "assets/room/chandelier.webp", "w": 93, "h": 94}, {"id": "moonlight", "name": "달 구름 조명", "kind": "wall", "tier": 1, "file": "assets/room/moonlight.webp", "w": 96, "h": 79}, {"id": "mobile", "name": "별 모빌", "kind": "wall", "tier": 1, "file": "assets/room/mobile.webp", "w": 78, "h": 87}, {"id": "tablelamp", "name": "분홍 스탠드", "kind": "prop", "tier": 0, "file": "assets/room/tablelamp.webp", "w": 62, "h": 83}, {"id": "floorlamp", "name": "리본 장스탠드", "kind": "prop", "tier": 1, "file": "assets/room/floorlamp.webp", "w": 59, "h": 154}, {"id": "heartdeco", "name": "하트 장식", "kind": "wall", "tier": 0, "file": "assets/room/heartdeco.webp", "w": 58, "h": 73}, {"id": "frame1", "name": "하트 액자", "kind": "wall", "tier": 0, "file": "assets/room/frame1.webp", "w": 61, "h": 73}, {"id": "frame2", "name": "코끼리 액자", "kind": "wall", "tier": 0, "file": "assets/room/frame2.webp", "w": 76, "h": 76}, {"id": "frame3", "name": "구름 액자", "kind": "wall", "tier": 0, "file": "assets/room/frame3.webp", "w": 44, "h": 54}, {"id": "calendar", "name": "달력", "kind": "wall", "tier": 0, "file": "assets/room/calendar.webp", "w": 61, "h": 96}, {"id": "clock", "name": "리본 시계", "kind": "wall", "tier": 0, "file": "assets/room/clock.webp", "w": 62, "h": 80}, {"id": "wallshelf", "name": "코끼리 선반", "kind": "wall", "tier": 1, "file": "assets/room/wallshelf.webp", "w": 157, "h": 82}, {"id": "hangplant", "name": "걸이 화분", "kind": "wall", "tier": 0, "file": "assets/room/hangplant.webp", "w": 51, "h": 98}, {"id": "plantpot", "name": "리본 화분", "kind": "prop", "tier": 0, "file": "assets/room/plantpot.webp", "w": 73, "h": 101}, {"id": "flowershelf", "name": "꽃 선반", "kind": "wall", "tier": 1, "file": "assets/room/flowershelf.webp", "w": 122, "h": 71}, {"id": "bluerug", "name": "파란 꽃 러그", "kind": "rug", "tier": 1, "file": "assets/room/bluerug.webp", "w": 172, "h": 81}, {"id": "tulip", "name": "튤립 화병", "kind": "prop", "tier": 0, "file": "assets/room/tulip.webp", "w": 61, "h": 115}, {"id": "bigplant", "name": "큰 화분", "kind": "prop", "tier": 1, "file": "assets/room/bigplant.webp", "w": 80, "h": 121}, {"id": "flowerstool", "name": "꽃 테이블", "kind": "furn", "tier": 1, "file": "assets/room/flowerstool.webp", "w": 98, "h": 70}, {"id": "pinkstool", "name": "분홍 의자", "kind": "furn", "tier": 0, "file": "assets/room/pinkstool.webp", "w": 62, "h": 68}, {"id": "pinkbox", "name": "하트 상자", "kind": "prop", "tier": 0, "file": "assets/room/pinkbox.webp", "w": 67, "h": 57}, {"id": "teddy", "name": "곰돌이 인형", "kind": "prop", "tier": 0, "file": "assets/room/teddy.webp", "w": 65, "h": 74}, {"id": "cloudrug", "name": "구름 러그", "kind": "rug", "tier": 0, "file": "assets/room/cloudrug.webp", "w": 77, "h": 48}, {"id": "quilt", "name": "누빔 하트 러그", "kind": "rug", "tier": 0, "file": "assets/room/quilt.webp", "w": 64, "h": 53}, {"id": "sidetable", "name": "하트 협탁", "kind": "furn", "tier": 0, "file": "assets/room/sidetable.webp", "w": 52, "h": 57}, {"id": "ottoman", "name": "분홍 오토만", "kind": "furn", "tier": 0, "file": "assets/room/ottoman.webp", "w": 56, "h": 53}, {"id": "globe", "name": "지구본", "kind": "prop", "tier": 0, "file": "assets/room/globe.webp", "w": 48, "h": 61}, {"id": "mirror", "name": "스탠드 거울", "kind": "prop", "tier": 0, "file": "assets/room/mirror.webp", "w": 52, "h": 58}, {"id": "books", "name": "책 더미", "kind": "prop", "tier": 0, "file": "assets/room/books.webp", "w": 52, "h": 46}, {"id": "boxes", "name": "선물 상자", "kind": "prop", "tier": 0, "file": "assets/room/boxes.webp", "w": 53, "h": 61}, {"id": "lantern", "name": "작은 랜턴", "kind": "prop", "tier": 0, "file": "assets/room/lantern.webp", "w": 34, "h": 37}];
 var TIERS = [
   {name:'보통',     w:60, dup:4,  buy:true},
